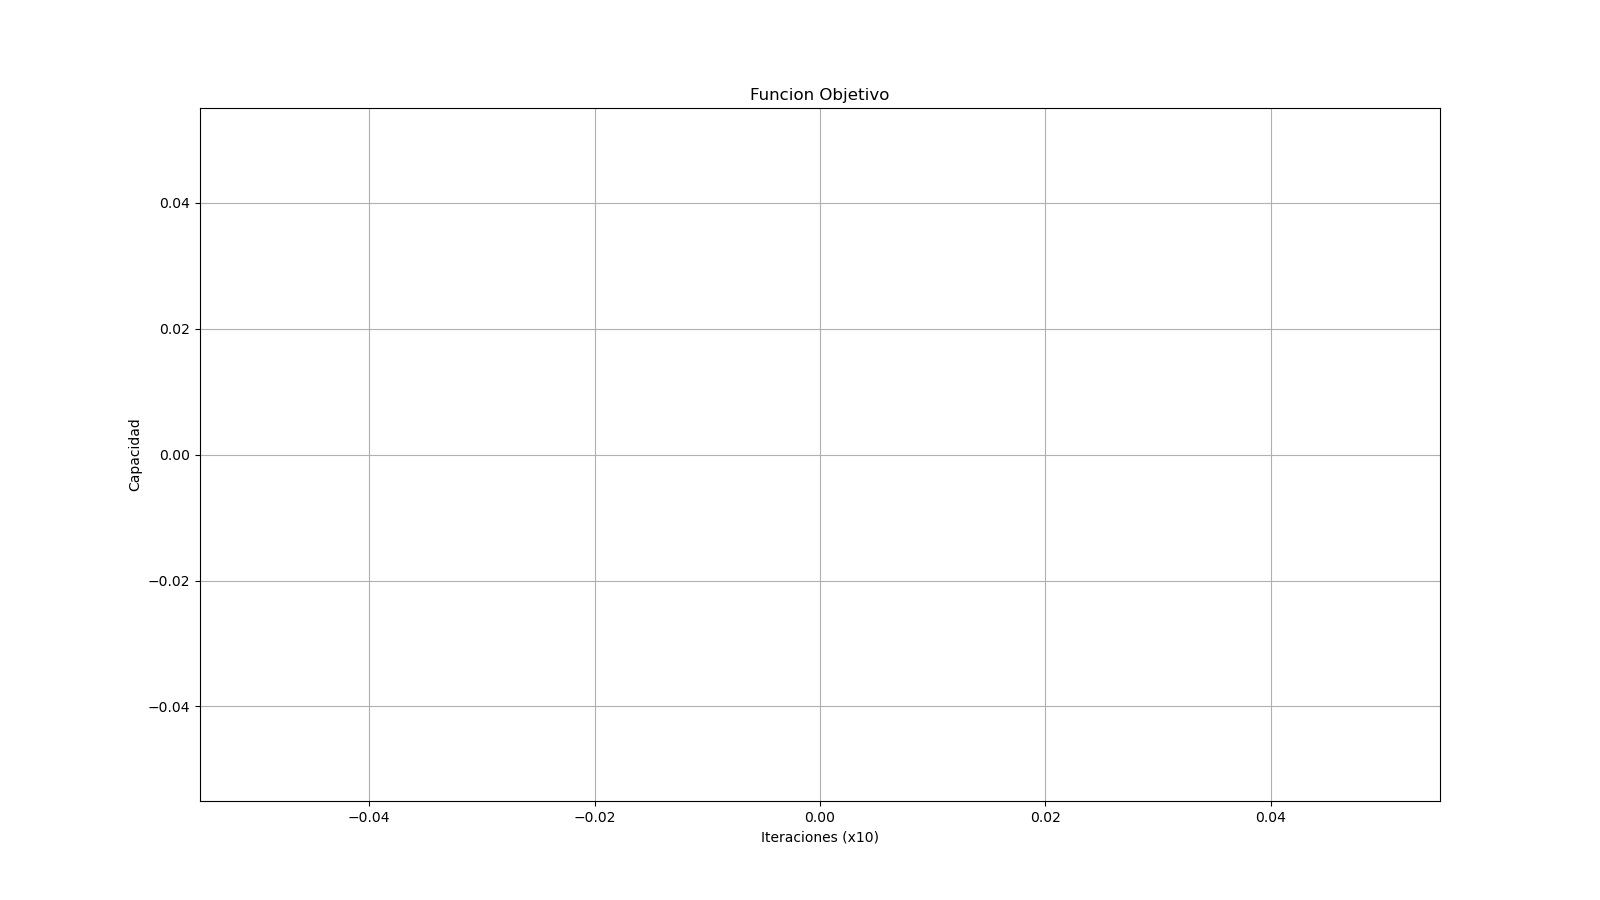
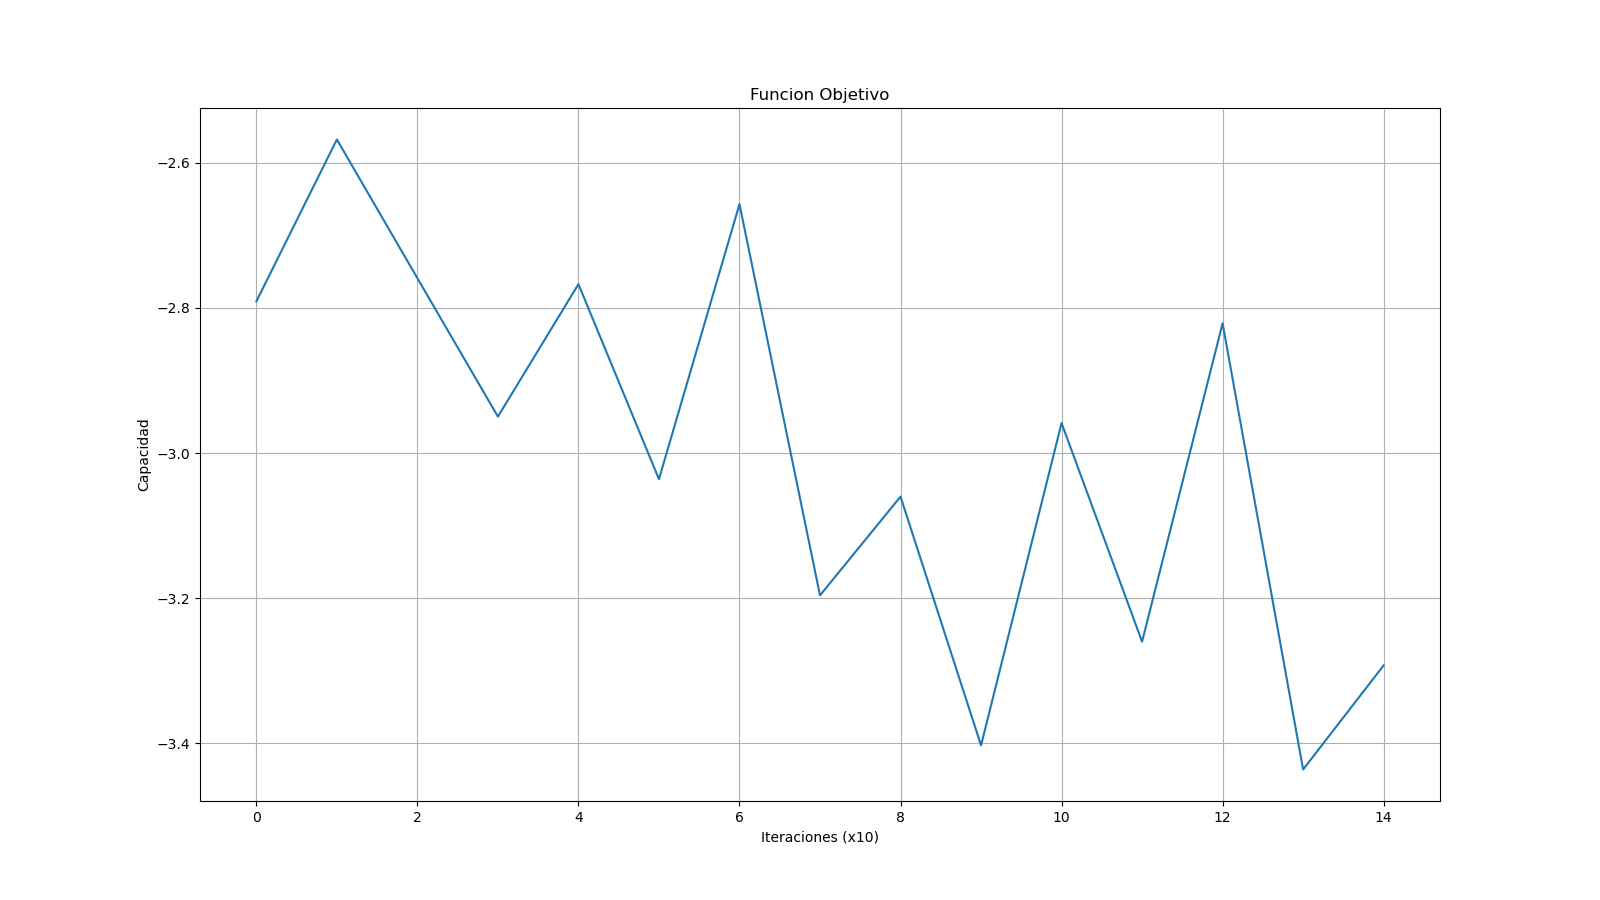
primer env+train que funciona

diff --git a/RL/train_gym.py b/RL/train_gym.py
@@ -1,6 +1,6 @@
 """
-Sistema de Entrenamiento para Políticas de Asignación de Potencia
-Utiliza Redes Neuronales de Grafos y aprendizaje por refuerzo.
+Sistema de Entrenamiento para Políticas de Asignación de Potencia (CORREGIDO)
+Utiliza Redes Neuronales de Grafos y aprendizaje por refuerzo con REINFORCE.
 """
 
 import torch
@@ -26,29 +26,68 @@ class GNNAgent:
         self.num_links = num_links
         self.num_actions = num_actions
         
-    def predict(self, graph_data):
+    def predict(self, graph_data, training=False):
         """
         Genera decisiones de asignación de potencia basadas en el estado actual.
+        
+        Args:
+            graph_data: Datos del grafo de entrada
+            training: Si True, mantiene el grafo computacional para backprop
         
         Returns:
             actions: Vector de decisiones discretas por enlace
             action_probs: Distribución de probabilidad de las decisiones
+            log_probs: Log-probabilidades para REINFORCE (solo si training=True)
         """
-        with torch.no_grad():
+        if training:
+            # Modo entrenamiento: mantener gradientes
             psi = self.gnn_model.forward(graph_data.x, graph_data.edge_index, graph_data.edge_attr)
-            psi = psi.view(1, self.num_links, -1)
+            
+            # DEBUG: Verificar dimensiones
+            batch_size = graph_data.x.size(0) // self.num_links
+            
+            # Reshape: [batch_size * num_links, output_dim] -> [batch_size, num_links, num_actions]
+            psi = psi.view(batch_size, self.num_links, self.num_actions)
+            
+            # Tomar solo el primer elemento del batch
+            psi = psi[0:1]  # Shape: [1, num_links, num_actions]
+            
             probs = torch.softmax(psi, dim=-1)
             
             # Estabilización numérica
-            probs = torch.clamp(probs, min=1e-8)
+            probs = torch.clamp(probs, min=1e-8, max=1.0)
             probs = probs / probs.sum(dim=-1, keepdim=True)
-            if not torch.all(torch.isfinite(probs)):
-                probs = torch.where(torch.isfinite(probs), probs, torch.ones_like(probs) / probs.size(-1))
+            
+            # Verificar que probs tenga la forma correcta
+            assert probs.shape == (1, self.num_links, self.num_actions), \
+                f"Shape incorrecto: {probs.shape}, esperado (1, {self.num_links}, {self.num_actions})"
             
             dist = torch.distributions.Categorical(probs=probs)
             actions = dist.sample().squeeze(0)
+            log_probs = dist.log_prob(actions)
             
-        return actions.numpy(), probs.squeeze(0).cpu().numpy()
+            # Validar que las acciones estén en el rango correcto
+            assert torch.all(actions >= 0) and torch.all(actions < self.num_actions), \
+                f"Acciones fuera de rango: {actions}, min={actions.min()}, max={actions.max()}"
+            
+            return actions, probs.squeeze(0), log_probs
+        else:
+            # Modo inferencia: sin gradientes
+            with torch.no_grad():
+                psi = self.gnn_model.forward(graph_data.x, graph_data.edge_index, graph_data.edge_attr)
+                
+                batch_size = graph_data.x.size(0) // self.num_links
+                psi = psi.view(batch_size, self.num_links, self.num_actions)
+                psi = psi[0:1]
+                
+                probs = torch.softmax(psi, dim=-1)
+                probs = torch.clamp(probs, min=1e-8, max=1.0)
+                probs = probs / probs.sum(dim=-1, keepdim=True)
+                
+                dist = torch.distributions.Categorical(probs=probs)
+                actions = dist.sample().squeeze(0)
+                
+            return actions.numpy(), probs.squeeze(0).cpu().numpy(), None
 
 
 def train_gym(building_id=990, b5g=0, num_links=5, num_channels=3, num_power_levels=2, 
@@ -57,8 +96,8 @@ def train_gym(building_id=990, b5g=0, num_links=5, num_channels=3, num_power_lev
     """
     Loop principal de entrenamiento para políticas de asignación de potencia.
     
-    Combina optimización Lagrangiana con gradientes de política para
-    entrenar redes neuronales en problemas con restricciones.
+    Combina optimización Lagrangiana con REINFORCE para entrenar redes neuronales 
+    en problemas con restricciones.
     """
     
     # Configuración de reproducibilidad
@@ -95,11 +134,25 @@ def train_gym(building_id=990, b5g=0, num_links=5, num_channels=3, num_power_lev
 
     # Inicialización del modelo
     input_dim = 1
-    hidden_dim = 1
+    hidden_dim = 16  # Aumentado para mejor capacidad
     output_dim = num_actions
     dropout = False
     
     gnn_model = GNN(input_dim, hidden_dim, output_dim, num_layers, dropout, K)
+    
+    # DEBUG: Verificar la salida de la GNN con datos de prueba
+    print("\n=== DEBUG: Verificando arquitectura GNN ===")
+    observation, info = env.reset()
+    test_graph = info["graph_data"]
+    with torch.no_grad():
+        test_output = gnn_model.forward(test_graph.x, test_graph.edge_index, test_graph.edge_attr)
+        print(f"Input shape: x={test_graph.x.shape}, edge_index={test_graph.edge_index.shape}")
+        print(f"Output shape de GNN: {test_output.shape}")
+        print(f"Esperado: [{batch_size * num_links}, {num_actions}]")
+        print(f"Output_dim configurado: {output_dim}")
+        print(f"Primeros valores de salida: {test_output[:5, :].flatten()[:10]}")
+    print("=" * 50 + "\n")
+    
     optimizer = optim.Adam(gnn_model.parameters(), lr=mu_lr)
 
     agent = GNNAgent(gnn_model, num_links, num_actions)
@@ -111,32 +164,78 @@ def train_gym(building_id=990, b5g=0, num_links=5, num_channels=3, num_power_lev
     mu_k_values = []
     probs_values = []
 
-    print("Iniciando proceso de entrenamiento...")
+    print("Iniciando proceso de entrenamiento con REINFORCE...")
 
     for episode in range(epochs):
-        print(f"Procesando episodio {episode}")
-        
         observation, info = env.reset()
         graph_data = info["graph_data"]
         done = False
+        
+        # Buffers para REINFORCE
+        episode_log_probs = []
+        episode_rewards = []
         episode_probs = []
         episode_power_constraints = []
         episode_objectives = []
         episode_mu_k = []
 
+        # Recolección de trayectoria
         while not done:
-            action, probs = agent.predict(graph_data)
+            # FIX: Modo entrenamiento para mantener gradientes
+            action_tensor, probs, log_probs = agent.predict(graph_data, training=True)
+            action = action_tensor.detach().cpu().numpy()
             
             next_observation, reward, terminated, truncated, info = env.step(action)
             done = terminated or truncated
             
-            # Recolección de métricas
-            episode_probs.append(probs)
+            # Almacenar para REINFORCE
+            episode_log_probs.append(log_probs)
+            episode_rewards.append(reward)
+            
+            # Métricas
+            episode_probs.append(probs.detach().cpu().numpy())
             episode_power_constraints.append(info["power_constraint"])
-            episode_objectives.append(-reward)
+            episode_objectives.append(-reward if np.isfinite(reward) else 0.0)
             episode_mu_k.append(info["mu_k"].copy())
             
             graph_data = info["graph_data"]
+
+        # Actualización de política con REINFORCE
+        if len(episode_log_probs) > 0:
+            # Calcular retornos (rewards acumulados)
+            returns = []
+            R = 0
+            for r in reversed(episode_rewards):
+                if np.isfinite(r):
+                    R = r + 0.99 * R  # gamma = 0.99
+                    returns.insert(0, R)
+                else:
+                    returns.insert(0, 0.0)
+            
+            # Normalizar retornos para estabilidad
+            returns = torch.tensor(returns, dtype=torch.float32)
+            if len(returns) > 1 and returns.std() > 1e-8:
+                returns = (returns - returns.mean()) / (returns.std() + 1e-8)
+            
+            # Calcular pérdida de política
+            policy_loss = []
+            for log_prob, R in zip(episode_log_probs, returns):
+                # REINFORCE: -log_prob * return
+                policy_loss.append(-log_prob.sum() * R)
+            
+            if len(policy_loss) > 0:
+                policy_loss = torch.stack(policy_loss).sum()
+                
+                # Backpropagation
+                optimizer.zero_grad()
+                policy_loss.backward()
+                
+                # Gradient clipping para estabilidad
+                torch.nn.utils.clip_grad_norm_(gnn_model.parameters(), max_norm=1.0)
+                
+                optimizer.step()
+                
+                loss_values.append(policy_loss.item())
 
         # Consolidación de estadísticas del episodio
         if episode % 10 == 0:
@@ -144,15 +243,17 @@ def train_gym(building_id=990, b5g=0, num_links=5, num_channels=3, num_power_lev
             avg_power_constraint = np.mean(episode_power_constraints)
             avg_objective = np.mean(episode_objectives)
             avg_mu_k = np.mean(episode_mu_k, axis=0)
+            avg_loss = np.mean(loss_values[-10:]) if loss_values else 0.0
             
             probs_values.append(avg_probs)
             power_constraint_values.append(avg_power_constraint)
             objective_function_values.append(avg_objective)
             mu_k_values.append(avg_mu_k)
             
-            print(f"Episodio {episode} | "
-                  f"Objetivo: {avg_objective:.4f} | "
-                  f"Restricción: {avg_power_constraint:.4f}")
+            print(f"Episodio {episode:3d} | "
+                  f"Objetivo: {avg_objective:8.4f} | "
+                  f"Restricción: {avg_power_constraint:8.4f} | "
+                  f"Loss: {avg_loss:8.4f}")
 
     # Persistencia de resultados
     print("Finalizando entrenamiento y guardando resultados...")
@@ -180,7 +281,12 @@ def train_gym(building_id=990, b5g=0, num_links=5, num_channels=3, num_power_lev
     # Almacenamiento de artefactos
     metrics_file = path + 'training_metrics.pkl'
     with open(metrics_file, 'wb') as f:
-        pickle.dump(objective_function_values, f)
+        pickle.dump({
+            'objective_function_values': objective_function_values,
+            'power_constraint_values': power_constraint_values,
+            'loss_values': loss_values,
+            'mu_k_values': mu_k_values
+        }, f)
 
     model_path = path + 'trained_gnn_weights.pth'
     torch.save(gnn_model.state_dict(), model_path)

diff --git a/RL/network_environment.py b/RL/network_environment.py
@@ -92,7 +92,7 @@ class NetworkEnvironment(gym.Env):
         """Configura parámetros físicos del sistema de comunicaciones."""
         self.p0 = 10 ** (self.max_antenna_power_dbm / 10)
         self.pmax_per_ap = 0.8 * self.p0 * torch.ones((self.num_links,))
-        self.power_levels = torch.tensor([self.p0/2, self.p0])
+        self.power_levels = torch.tensor((np.arange(1, self.num_power_levels + 1) / self.num_power_levels) * self.p0)
 
     def _load_dataset(self):
         """Carga dataset de matrices de canal para entrenamiento."""
@@ -199,25 +199,69 @@ class NetworkEnvironment(gym.Env):
         return observation.astype(np.float32)
 
     def _actions_to_phi(self, actions):
-        """Convierte acciones discretas en matriz de asignación de potencia."""
+        """
+        Convierte acciones discretas en matriz de asignación de potencia.
+        
+        Mapeo de acciones:
+        - Acción 0: No transmitir
+        - Acciones 1-6: Combinaciones de (canal, nivel_potencia)
+          - action = 1 + channel_idx * num_power_levels + power_idx
+        """
         actions_tensor = torch.from_numpy(actions).long()
-        phi = torch.zeros(0, self.num_links, self.num_channels)
-        active_mask = (actions_tensor > 0)
-
-        if active_mask.any():
-            actions_active = actions_tensor[active_mask] - 1
-            channel_idx = actions_active // self.num_power_levels
-            power_idx = actions_active % self.num_power_levels
-            phi[:, active_mask, channel_idx] = self.power_levels[power_idx]
+        phi = torch.zeros(1, self.num_links, self.num_channels)
+        
+        # Iterar sobre cada enlace
+        for link_idx in range(self.num_links):
+            action = actions_tensor[link_idx].item()
+            
+            # Acción 0 = no transmitir (phi permanece en 0)
+            if action > 0:
+                action_offset = action - 1  # Convertir a índice base-0
+                
+                # Decodificar: action_offset = channel_idx * num_power_levels + power_idx
+                channel_idx = action_offset // self.num_power_levels
+                power_idx = action_offset % self.num_power_levels
+                
+                # Validación de índices
+                if channel_idx < self.num_channels and power_idx < self.num_power_levels:
+                    phi[0, link_idx, channel_idx] = self.power_levels[power_idx]
+                else:
+                    print(f"WARNING: Índice inválido en link {link_idx}: "
+                          f"action={action}, channel={channel_idx}, power={power_idx}")
         
         return phi
 
     def _calculate_reward(self, phi, power_constr):
-        """Calcula la recompensa basada en métricas de la red."""
+        """
+        Calcula la recompensa basada en métricas de la red.
+        FIX: Manejo robusto de NaN/Inf
+        """
         rates = nuevo_get_rates(phi, self.current_channel_matrix.unsqueeze(0), self.sigma)
+        
+        # Protección contra NaN/Inf
+        if not torch.isfinite(rates).all():
+            print("WARNING: Rates contiene NaN/Inf, usando valor por defecto")
+            return -100.0
+        
         sum_rate = -objective_function(rates)
+        
+        if not torch.isfinite(sum_rate):
+            print("WARNING: sum_rate es NaN/Inf")
+            return -100.0
+        
         penalty = (power_constr * self.mu_k.unsqueeze(0)).sum(dim=1)
+        
+        if not torch.isfinite(penalty).all():
+            print("WARNING: penalty contiene NaN/Inf")
+            penalty = torch.zeros_like(penalty)
+        
         reward = (sum_rate - penalty).mean().item()
+        
+        # Protección final
+        if not np.isfinite(reward):
+            print("WARNING: reward final es NaN/Inf")
+            return -100.0
+        
         return reward
 
     def render(self):
